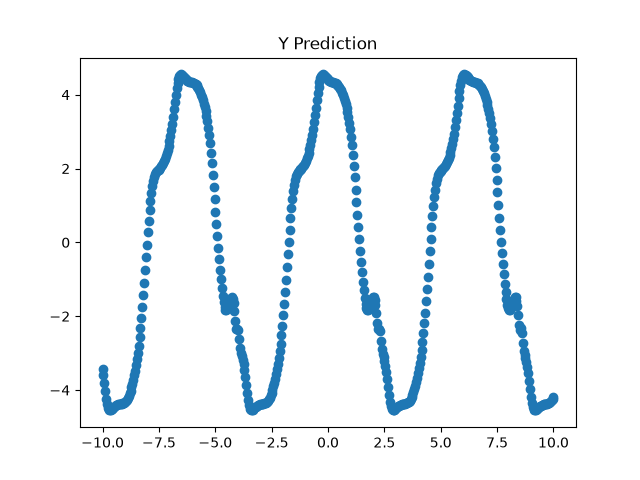
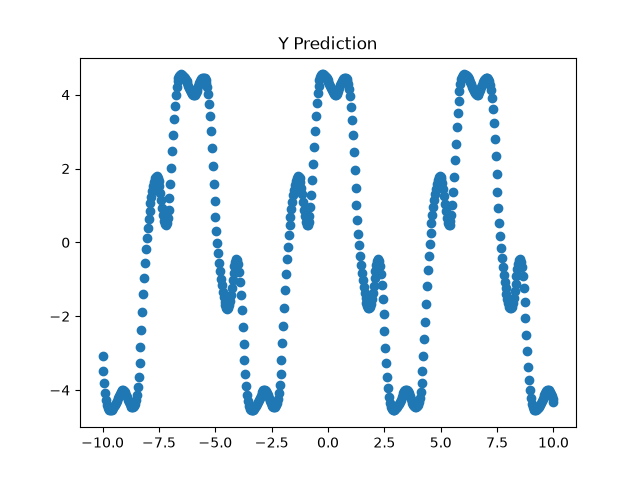
updated config

Changed region(s): [[0.1562, 0.1562, 0.5, 0.875], [0.5, 0.1562, 0.875, 0.875]]

diff --git a/src/configs.py b/src/configs.py
@@ -7,7 +7,7 @@ NON_FIT_PARENT_PERCENT = .05 # to prevent early convergence and keep diversity
 MAX_SIZE = 5
 
 # Prevents program from blowing up in size
-BLOAT_CONTROL = 64
+BLOAT_CONTROL = 40
 
 CO_NON_LEAF = .9
 CO_LEAF = .1
